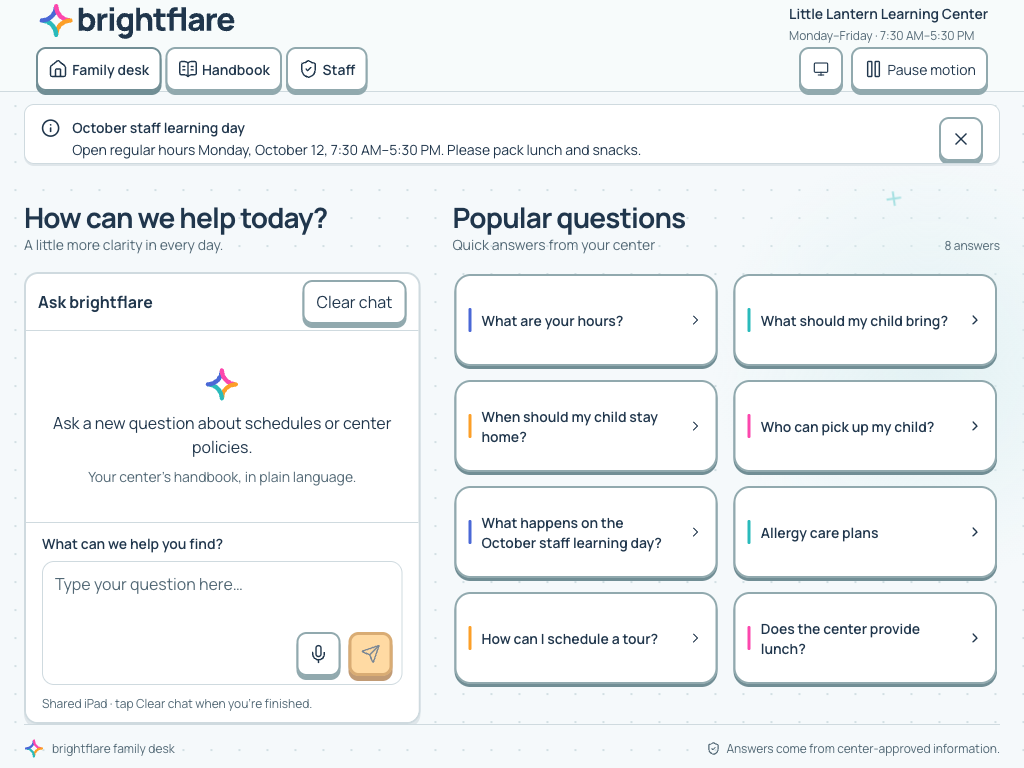
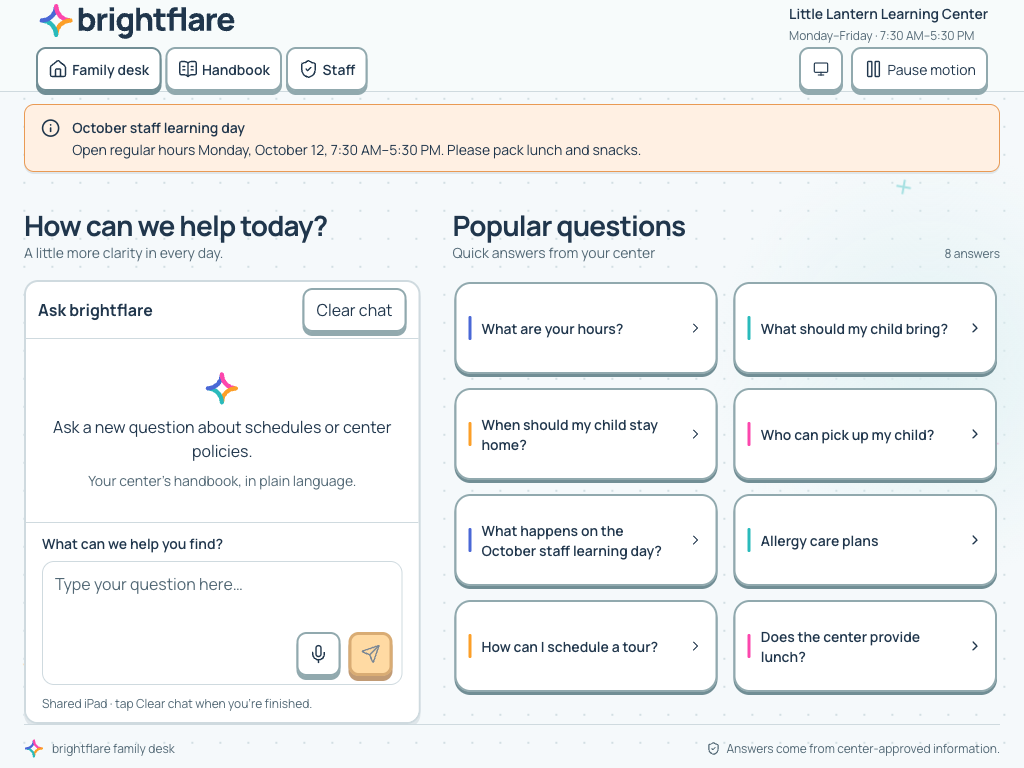
Refresh family desk announcement screenshots

diff --git a/README.md b/README.md
@@ -14,11 +14,11 @@
 
 ### Family desk
 
-![brightflare family desk on desktop](https://brightflare.sprioleau.dev/screenshots/parent-desktop.png?v=20260924-final)
+![brightflare family desk on desktop](https://brightflare.sprioleau.dev/screenshots/parent-desktop.png?v=20260925-announcement)
 
 <p align="left">
-  <img src="https://brightflare.sprioleau.dev/screenshots/parent-mobile.png?v=20260924-final" alt="brightflare family desk on a phone with responsive menu closed" width="280" />
-  <img src="https://brightflare.sprioleau.dev/screenshots/parent-mobile-menu.png?v=20260924-final" alt="brightflare family desk on a phone with responsive navigation open" width="280" />
+  <img src="https://brightflare.sprioleau.dev/screenshots/parent-mobile.png?v=20260925-announcement" alt="brightflare family desk on a phone with responsive menu closed" width="280" />
+  <img src="https://brightflare.sprioleau.dev/screenshots/parent-mobile-menu.png?v=20260925-announcement" alt="brightflare family desk on a phone with responsive navigation open" width="280" />
 </p>
 
 ### Staff workspace
